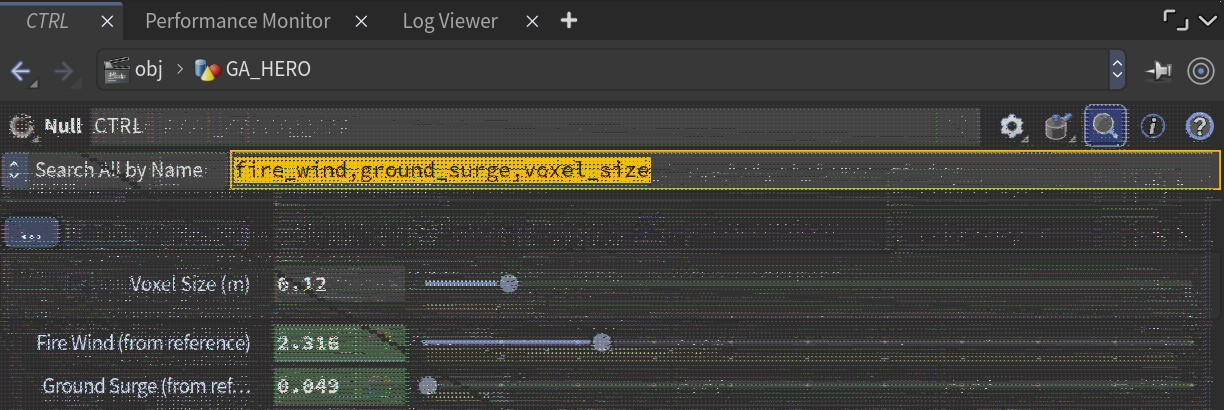
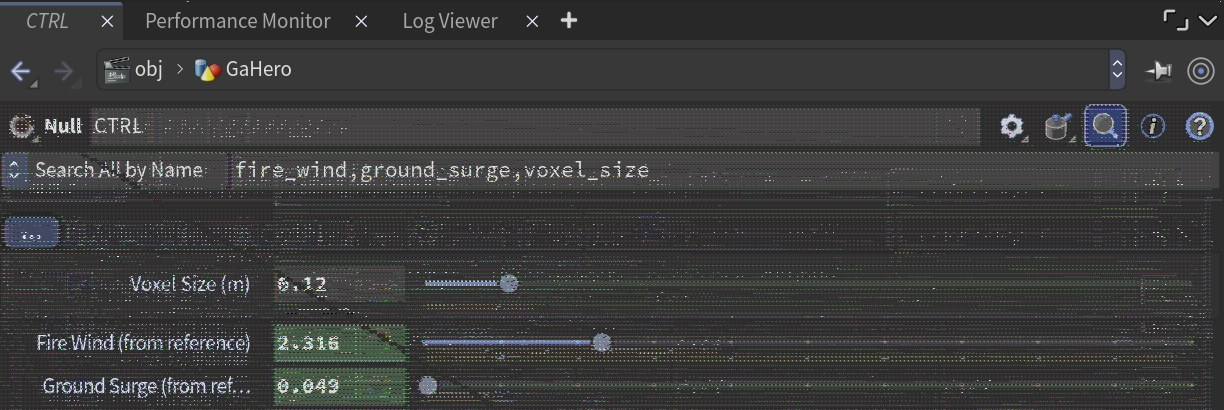
Entry 4: node names without underscores, screenshots retaken
Claude-Session: https://claude.ai/code/session_01Q1FERGjhjYyHWZMg4k3vWj

diff --git a/index.html b/index.html
@@ -1485,11 +1485,11 @@
           <li><strong>Earlier pine trees, rebuilt with SOP nodes:</strong>
             <ul>
               <li>Before: 4 tree variants (pines, bushy pines, round trees), each trunk leaning ±4°.</li>
-              <li>Now: the earlier pine on every tree, built only from nodes in <code>PROC_TREES</code>.</li>
+              <li>Now: the earlier pine on every tree, built only from nodes in <code>ProcTrees</code>.</li>
               <li>Crown split into 3 bands; branch tilt low / mid / top: <code>18°</code> / <code>0°</code> / <code>−24°</code>.</li>
-              <li>Branch length shrinks toward the top: Output Max on <code>WHORL_SIZE</code> = <code>0.28</code>.</li>
-              <li>Twigs with needle clusters on every branch (<code>TWIG_DIRECTION</code>, Min <code>(−1, 0.15, 0.3)</code>, Max <code>(1, 0.45, 0.9)</code>).</li>
-              <li>Dead branches under the crown: <code>DEAD_LINE</code> length <code>1.4</code>, direction <code>(0, −0.3, 1)</code>.</li>
+              <li>Branch length shrinks toward the top: Output Max on <code>WhorlSize</code> = <code>0.28</code>.</li>
+              <li>Twigs with needle clusters on every branch (<code>TwigDirection</code>, Min <code>(−1, 0.15, 0.3)</code>, Max <code>(1, 0.45, 0.9)</code>).</li>
+              <li>Dead branches under the crown: <code>DeadLine</code> length <code>1.4</code>, direction <code>(0, −0.3, 1)</code>.</li>
               <li>Needle area back to the earlier amount: <code>221 m²</code> → <code>105 m²</code>.</li>
               <li>Second hero tree: copy of the same network with different seeds.</li>
               <li>Tree line: 69 trees, all the same pine, trunks straight (lean <code>±4°</code> → <code>0°</code>).</li>
@@ -1504,20 +1504,20 @@
           </li>
           <li><strong>Wind from the reference:</strong>
             <ul>
-              <li>New <code>fire_wind</code> channel on <code>CTRL</code>, keyed on every frame from the flame drift in the reference (1.4–3.3 m/s).</li>
+              <li>New Fire Wind channel on <code>CTRL</code>, keyed on every frame from the flame drift in the reference (1.4–3.3 m/s).</li>
               <li>All three Pyro Solvers read it: trees × <code>4.0</code>, ground × <code>1.2</code>, embers × <code>0.5</code>.</li>
               <li>Sideways drift: <code>11.0</code> → <code>4.8 px/s</code> (reference <code>4.4 px/s</code>).</li>
             </ul>
           </li>
           <li><strong>Red background removed:</strong>
             <ul>
-              <li><code>CAM_HERO</code> Background Image: reference plate → empty.</li>
+              <li><code>CamHero</code> Background Image: reference plate → empty.</li>
               <li>Haze colour: <code>(0.78, 0.33, 0.07)</code> → <code>(0.66, 0.40, 0.02)</code>, orange instead of red.</li>
             </ul>
           </li>
           <li><strong>Ground fire blown upward, like the reference centre:</strong>
             <ul>
-              <li>New <code>ground_surge</code> channel (0–1), keyed per frame from how much flame reaches the upper half of the centre in each frame of the clip.</li>
+              <li>New Ground Surge channel (0–1), keyed per frame from how much flame reaches the upper half of the centre in each frame of the clip.</li>
               <li>It drives a fire wall between the trunks: <code>2200</code> → <code>4800</code> source points and <code>4</code> → <code>10 m</code> tall during gusts, rising at <code>3–8 m/s</code>.</li>
               <li>Ground wind <code>× 3.5</code> → <code>× 1.2</code>, so it rises instead of sweeping sideways.</li>
               <li>Buoyancy Scale <code>1.0</code> → <code>1.3</code>.</li>
@@ -1527,7 +1527,7 @@
           <li><strong>Embers on the bark:</strong>
             <ul>
               <li>Yellow dots were separate glow spheres; removed, so the embers are pyro only.</li>
-              <li>Ember spots now snap onto the trunk surface, using the trunk-only copies in <code>EMBER_TRUNKS</code>.</li>
+              <li>Ember spots now snap onto the trunk surface, using the trunk-only copies in <code>EmberTrunks</code>.</li>
             </ul>
           </li>
           <li><strong>Embers move like flames:</strong>
@@ -1543,7 +1543,7 @@
           <li><strong>Tree greens desaturated, less reaction to light:</strong>
             <ul>
               <li>Needle colour <code>(0.09, 0.18, 0.06)</code> → <code>(0.10, 0.12, 0.093)</code>.</li>
-              <li><code>TREE_MATTE</code>: Base Color <code>0.7</code> with Use Point Color on, so trees take 70% of the light; Roughness <code>1</code>, no reflection.</li>
+              <li><code>TreeMatte</code>: Base Color <code>0.7</code> with Use Point Color on, so trees take 70% of the light; Roughness <code>1</code>, no reflection.</li>
             </ul>
           </li>
           <li><strong>Less blown-out pyro in the midground:</strong>
@@ -1599,12 +1599,12 @@
         <h4>1. Pine trees built with nodes</h4>
         <div class="post-pair">
           <figure>
-            <img src="blog/day05/a_crown_bands_parms.jpg" alt="WHORL_SIZE parameters">
-            <figcaption>Shows <code>WHORL_SIZE</code>: branch length goes from 1.0 at the bottom to 0.28 at the top.</figcaption>
+            <img src="blog/day05/a_crown_bands_parms.jpg" alt="WhorlSize parameters">
+            <figcaption>Shows <code>WhorlSize</code>: branch length goes from 1.0 at the bottom to 0.28 at the top.</figcaption>
           </figure>
           <figure>
-            <img src="blog/day05/b_branch_tilt_top_parms.jpg" alt="BRANCH_TILT_TOP parameters">
-            <figcaption>Shows <code>BRANCH_TILT_TOP</code>: Rotate X −24, which tilts the top band of branches up.</figcaption>
+            <img src="blog/day05/b_branch_tilt_top_parms.jpg" alt="BranchTiltTop parameters">
+            <figcaption>Shows <code>BranchTiltTop</code>: Rotate X −24, which tilts the top band of branches up.</figcaption>
           </figure>
         </div>
         <ul>
@@ -1613,34 +1613,34 @@
         </ul>
         <div class="post-pair">
           <figure>
-            <img src="blog/day05/c_twigs_net.jpg" alt="Twig nodes in PROC_TREES">
+            <img src="blog/day05/c_twigs_net.jpg" alt="Twig nodes in ProcTrees">
             <figcaption>Shows the twig chain: line, sweep, needle clusters, then copied along each branch.</figcaption>
           </figure>
           <figure>
-            <img src="blog/day05/c_twigs_parms.jpg" alt="TWIG_DIRECTION parameters">
-            <figcaption>Shows <code>TWIG_DIRECTION</code>: random twig directions between (−1, 0.15, 0.3) and (1, 0.45, 0.9).</figcaption>
+            <img src="blog/day05/c_twigs_parms.jpg" alt="TwigDirection parameters">
+            <figcaption>Shows <code>TwigDirection</code>: random twig directions between (−1, 0.15, 0.3) and (1, 0.45, 0.9).</figcaption>
           </figure>
         </div>
         <div class="post-pair">
           <figure>
-            <img src="blog/day05/d_dead_branches_net.jpg" alt="Dead branch nodes in PROC_TREES">
-            <figcaption>Shows the dead branch chain feeding into <code>ONE_PINE</code>.</figcaption>
+            <img src="blog/day05/d_dead_branches_net.jpg" alt="Dead branch nodes in ProcTrees">
+            <figcaption>Shows the dead branch chain feeding into <code>OnePine</code>.</figcaption>
           </figure>
           <figure>
-            <img src="blog/day05/d_dead_branches_parms.jpg" alt="DEAD_LINE parameters">
-            <figcaption>Shows <code>DEAD_LINE</code>: length 1.4, pointing slightly down (0, −0.3, 1).</figcaption>
+            <img src="blog/day05/d_dead_branches_parms.jpg" alt="DeadLine parameters">
+            <figcaption>Shows <code>DeadLine</code>: length 1.4, pointing slightly down (0, −0.3, 1).</figcaption>
           </figure>
         </div>
 
         <h4>2. Tree fire back to the earlier version</h4>
         <div class="post-pair">
           <figure>
-            <img src="blog/day05/k_trees_dop.jpg" alt="PYRO_TREES_DOP flame lifespan">
-            <figcaption>Shows <code>PYRO_TREES_DOP</code> Flame Lifespan 0.7, the earlier value.</figcaption>
+            <img src="blog/day05/k_trees_dop.jpg" alt="PyroTreesDOP flame lifespan">
+            <figcaption>Shows <code>PyroTreesDOP</code> Flame Lifespan 0.7, the earlier value.</figcaption>
           </figure>
           <figure>
-            <img src="blog/day05/s1_trees_shape.jpg" alt="PYRO_TREES_DOP buoyancy and wind">
-            <figcaption>Shows Buoyancy Scale 0.85 and Wind Speed, which follows the <code>fire_wind</code> channel × 4.</figcaption>
+            <img src="blog/day05/s1_trees_shape.jpg" alt="PyroTreesDOP buoyancy and wind">
+            <figcaption>Shows Buoyancy Scale 0.85 and Wind Speed, which follows the Fire Wind channel × 4.</figcaption>
           </figure>
         </div>
         <ul>
@@ -1661,34 +1661,34 @@
 
         <h4>4. Red background removed</h4>
         <figure>
-          <img src="blog/day05/p_cam_background.jpg" alt="CAM_HERO background image parameter">
-          <figcaption>Shows <code>CAM_HERO</code> with the Background Image field now empty.</figcaption>
+          <img src="blog/day05/p_cam_background.jpg" alt="CamHero background image parameter">
+          <figcaption>Shows <code>CamHero</code> with the Background Image field now empty.</figcaption>
         </figure>
 
         <h4>5. Ground fire</h4>
         <div class="post-pair">
           <figure>
-            <img src="blog/day05/s4_ground_shape.jpg" alt="PYRO_GROUND_DOP buoyancy and wind">
-            <figcaption>Shows <code>PYRO_GROUND_DOP</code> Buoyancy Scale 1.3 and Wind Speed from <code>fire_wind</code> × 1.2.</figcaption>
+            <img src="blog/day05/s4_ground_shape.jpg" alt="PyroGroundDOP buoyancy and wind">
+            <figcaption>Shows <code>PyroGroundDOP</code> Buoyancy Scale 1.3 and Wind Speed from Fire Wind × 1.2.</figcaption>
           </figure>
           <figure>
-            <img src="blog/day05/h_ground_dop_parms.jpg" alt="PYRO_GROUND_DOP setup tab">
+            <img src="blog/day05/h_ground_dop_parms.jpg" alt="PyroGroundDOP setup tab">
             <figcaption>Shows the setup tab: Max Substeps 2, which removed the stripes in the floor fire.</figcaption>
           </figure>
         </div>
         <figure>
-          <img src="blog/day05/l_ground_dop.jpg" alt="PYRO_GROUND_DOP flame lifespan">
+          <img src="blog/day05/l_ground_dop.jpg" alt="PyroGroundDOP flame lifespan">
           <figcaption>Shows the floor fire Flame Lifespan of 0.6.</figcaption>
         </figure>
 
         <h4>6. Blown-out pyro and smoke colour</h4>
         <div class="post-pair">
           <figure>
-            <img src="blog/day05/s5_ground_look.jpg" alt="PYRO_GROUND_DOP smoke colour and intensity">
+            <img src="blog/day05/s5_ground_look.jpg" alt="PyroGroundDOP smoke colour and intensity">
             <figcaption>Shows the ground fire look: Smoke Color (0.42, 0.33, 0.27), Shadow Color (0.1, 0.06, 0.04), Intensity Scale 9.</figcaption>
           </figure>
           <figure>
-            <img src="blog/day05/s2_trees_look.jpg" alt="PYRO_TREES_DOP intensity">
+            <img src="blog/day05/s2_trees_look.jpg" alt="PyroTreesDOP intensity">
             <figcaption>Shows the tree fire Intensity Scale of 15.</figcaption>
           </figure>
         </div>
@@ -1700,20 +1700,20 @@
         <h4>7. Embers</h4>
         <figure>
           <img src="blog/day05/i_embers_dop_net.jpg" alt="Ember nodes">
-          <figcaption>Shows the ember chain: trunk copies, ember spots on the bark, ember sources, then <code>PYRO_EMBERS_DOP</code>.</figcaption>
+          <figcaption>Shows the ember chain: trunk copies, ember spots on the bark, ember sources, then <code>PyroEmbersDOP</code>.</figcaption>
         </figure>
         <div class="post-pair">
           <figure>
-            <img src="blog/day05/n_embers_dop.jpg" alt="PYRO_EMBERS_DOP shape tab">
-            <figcaption>Shows Buoyancy Scale 0.8, Wind from <code>fire_wind</code> × 0.5, Disturbance 0.3 with block size 0.15.</figcaption>
+            <img src="blog/day05/n_embers_dop.jpg" alt="PyroEmbersDOP shape tab">
+            <figcaption>Shows Buoyancy Scale 0.8, Wind from Fire Wind × 0.5, Disturbance 0.3 with block size 0.15.</figcaption>
           </figure>
           <figure>
-            <img src="blog/day05/i_embers_dop_parms.jpg" alt="PYRO_EMBERS_DOP setup tab">
+            <img src="blog/day05/i_embers_dop_parms.jpg" alt="PyroEmbersDOP setup tab">
             <figcaption>Shows Voxel Size 0.05 and Max Substeps 2 for the ember sim.</figcaption>
           </figure>
         </div>
         <figure>
-          <img src="blog/day05/s7_embers_fields.jpg" alt="PYRO_EMBERS_DOP flame lifespan">
+          <img src="blog/day05/s7_embers_fields.jpg" alt="PyroEmbersDOP flame lifespan">
           <figcaption>Shows the ember Flame Lifespan of 0.6.</figcaption>
         </figure>
         <ul>
@@ -1724,12 +1724,12 @@
         <h4>8. Tree colour and shader</h4>
         <div class="post-pair">
           <figure>
-            <img src="blog/day05/q_needles.jpg" alt="NEEDLES_COLOR parameters">
-            <figcaption>Shows <code>NEEDLES_COLOR</code>: the desaturated needle green (0.1, 0.12, 0.093).</figcaption>
+            <img src="blog/day05/q_needles.jpg" alt="NeedlesColor parameters">
+            <figcaption>Shows <code>NeedlesColor</code>: the desaturated needle green (0.1, 0.12, 0.093).</figcaption>
           </figure>
           <figure>
-            <img src="blog/day05/f_tree_material_parms.jpg" alt="TREE_MATTE material parameters">
-            <figcaption>Shows <code>TREE_MATTE</code>: Base Color 0.7, Use Point Color on, Roughness 1.</figcaption>
+            <img src="blog/day05/f_tree_material_parms.jpg" alt="TreeMatte material parameters">
+            <figcaption>Shows <code>TreeMatte</code>: Base Color 0.7, Use Point Color on, Roughness 1.</figcaption>
           </figure>
         </div>
 
